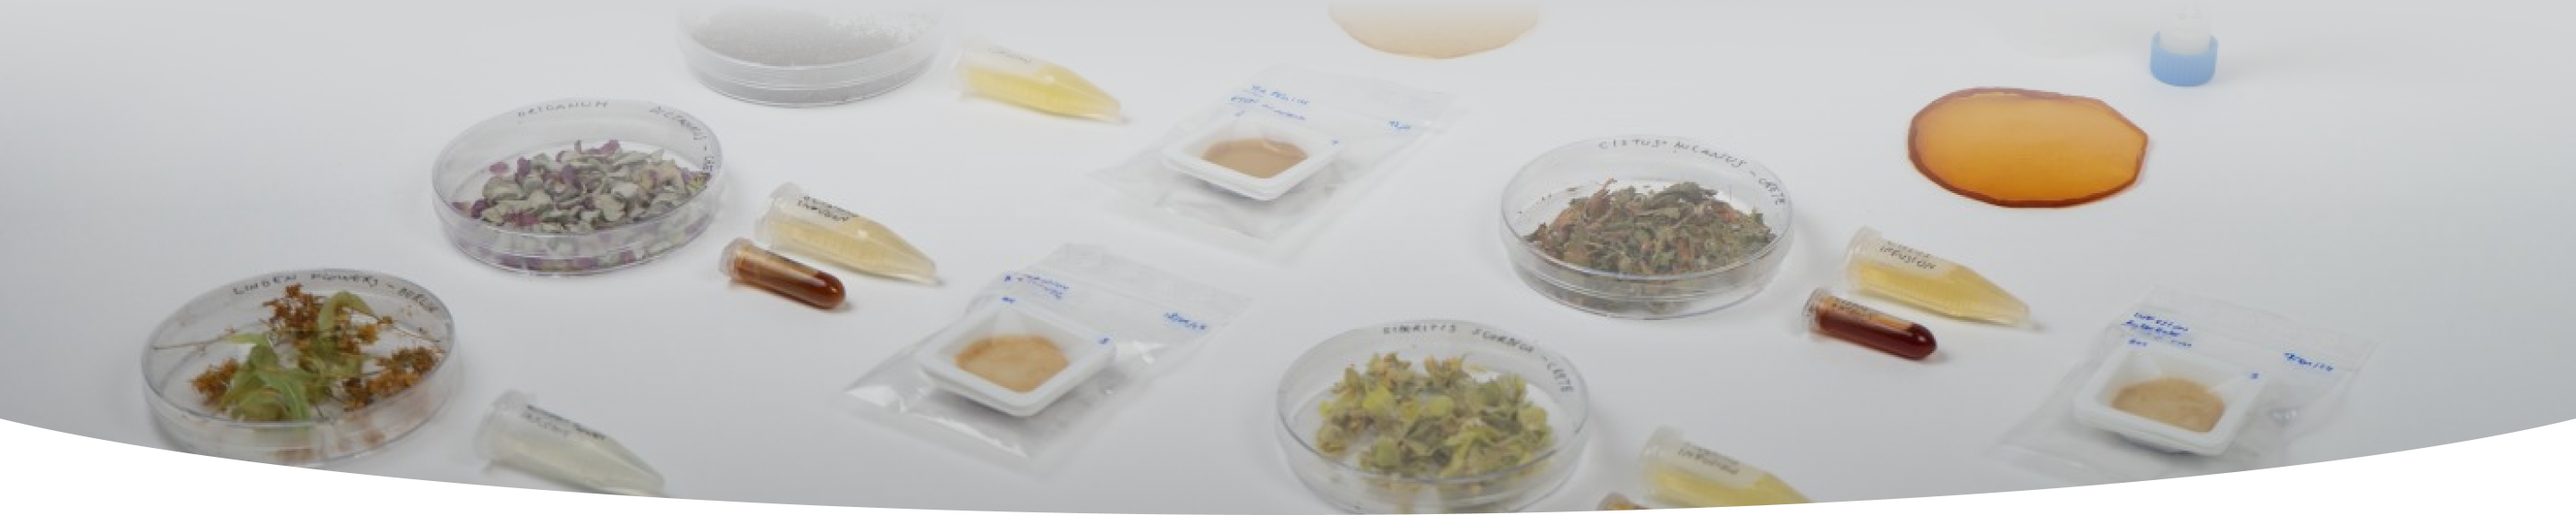
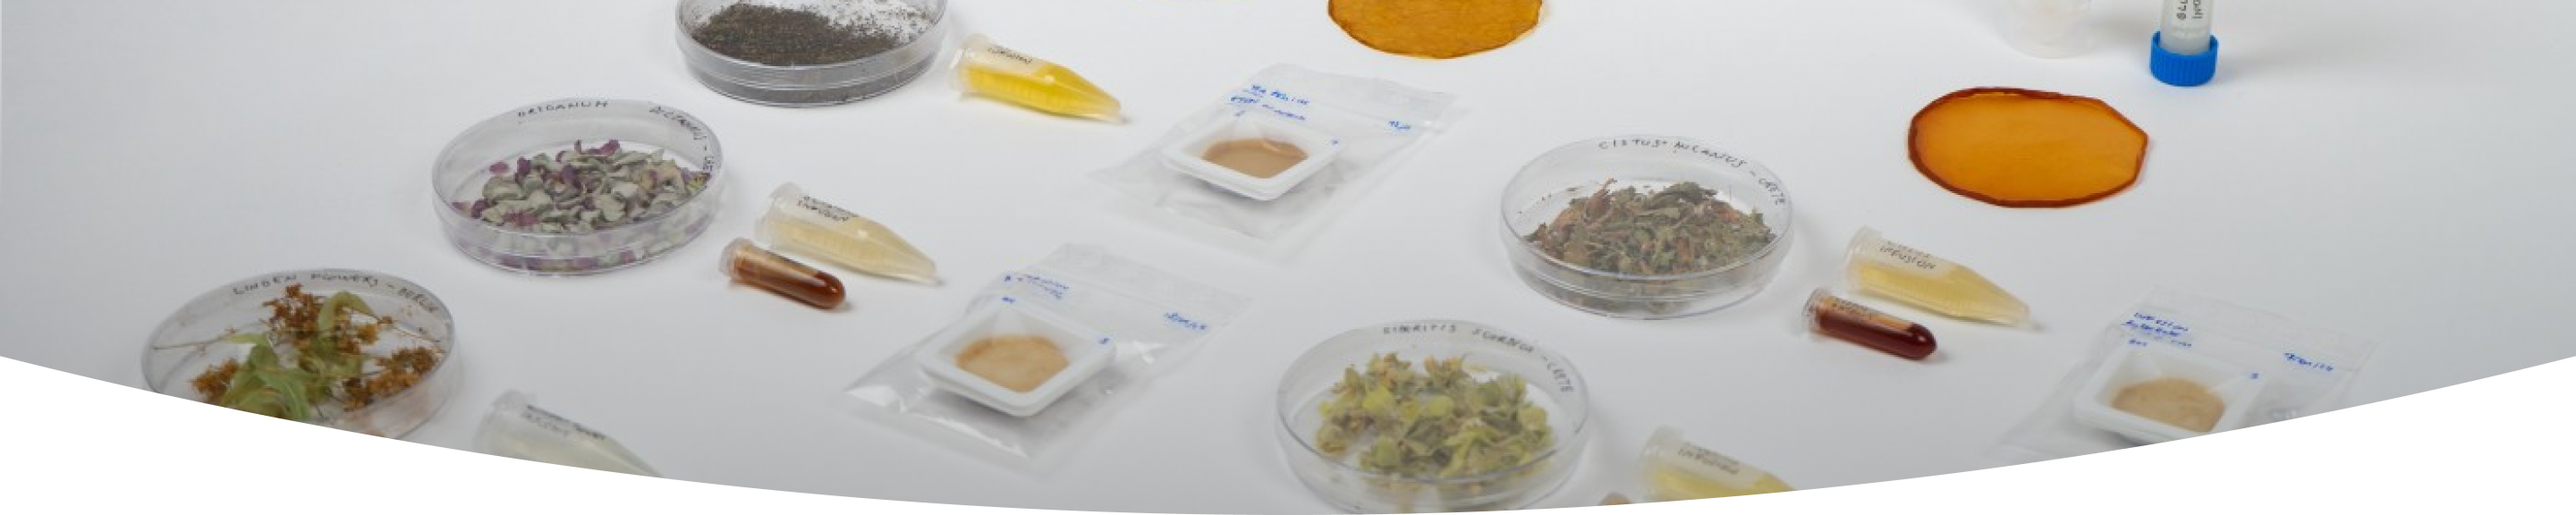
Added sections + size fix

diff --git a/index.html b/index.html
@@ -46,17 +46,17 @@
 </head>
 
 <body class="overflow-x-hidden">
-    <div id="hero-container" class="flex flex-col items-center relative min-h-[min(900px,100vh)]">
+    <div id="hero-container" class="flex flex-col items-center relative">
 
-        <div class="relative w-full flex flex-col items-center pt-20 pb-4">
+        <div class="relative w-full flex flex-col items-center">
             <img src="gradientCover.svg" class="absolute top-0 w-full h-8 z-10">
             <img src="cover.png" alt="Cover image"
-                class="h-3/4 w-full object-cover object-bottom absolute top-0 w-full -z-10">
+                class="h-3/4 w-full object-cover object-bottom w-full z-1 max-h-[200px]">
 
-            <img src="EmmaProfile.jpg" class="w-40 h-40 rounded-lg shadow-lg">
+            <img id="profile-pic" src="EmmaProfile.jpg" class="w-40 h-40 rounded-full z-20 -mt-20">
         </div>
 
-        <div class="flex flex-col items-center px-8">
+        <div class="flex flex-col items-center px-8 z-20">
 
             <div class="text-[#8B1538] mb-6 text-2xl">Emma Sicher</div>
 
@@ -72,37 +72,83 @@
             </div>
 
 
-            <p class="font-light text-[16px] max-w-xl leading-[130%] text-[#8B1538] text-center mt-8 mb-12">
+            <p class="font-light text-[20px] max-w-2xl leading-[130%] text-[#8B1538] text-center mt-8 mb-12">
                 A bio-designer exploring sustainable materials through microbial innovation. Featured in a TED talk and
                 giving workshops, aiming to share nature's potential to transform our materials and food systems.
             </p>
 
             <button
-                class="bg-[#8B1538] hover:bg-[#6d102c] active:scale-95 text-white px-8 py-3 rounded-full text-lg transition-all duration-200">Work
+                class="bg-[#8B1538] hover:bg-[#6d102c] active:scale-95 text-white px-8 py-3 rounded-full text-lg transition-all duration-200 mb-[300px] xl:mb-0">Work
                 with me</button>
+
+                <!-- <div>.</div> -->
 
 
         </div>
 
-        <div class="hidden md:block">
+        <div class="hidden z-10 md:block">
             <img src="HandLeft.png"
-                class="absolute left-0 bottom-0 w-[375px] h-auto max-w-[calc(50vw-110px)] max-h-[calc(100vh-510px)] object-contain object-left -z-10">
+                class="absolute left-0 bottom-0 w-[375px] h-auto max-w-[calc(50vw-140px)] max-h-[calc(100vh-510px)] object-contain object-left">
             <img src="HandRight.png"
-                class="absolute right-0 bottom-0 w-[375px] h-auto max-w-[calc(50vw-110px)] max-h-[calc(100vh-510px)] object-contain object-right -z-10">
+                class="absolute right-0 bottom-0 w-[375px] h-auto max-w-[calc(50vw-140px)] max-h-[calc(100vh-510px)] object-contain object-right">
         </div>
 
         <img src="HandCenter.png" class="w-full md:hidden">
 
     </div>
 
-    <!-- <section class="bg-white rounded-t-lg py-12">
-        <div class="flex flex-col items-center px-8 max-w-6xl mx-auto">
-            Maecenas condimentum quam eu laoreet finibus sapien velit vestibulum nunc eu posuere magna neque sit amet
-            magna. Phasellus mi ligula lacinia quis eleifend eget convallis vitae nisl. Nulla porta lorem elit quis
-            scelerisque purus maximus at. Sed suscipit convallis orci id ultrices. Suspendisse efficitur metus sit amet
-            sapien tristique eu vulputate est consectetur.
+    <div class="px-8 py-24 max-w-7xl mx-auto">
+        <!-- Section 1 -->
+        <div class="flex flex-col md:flex-row items-center gap-12 mb-24">
+            <div class="md:w-1/2">
+                <h2 class="text-3xl font-semibold text-[#8B1538] mb-4">Sustainable Materials</h2>
+                <p class="text-[#8B1538] font-light leading-relaxed">Creating innovative biomaterials through microbial fermentation, transforming organic waste into valuable resources. My research focuses on developing sustainable alternatives to conventional materials.</p>
+            </div>
+            <img src="materials.jpg" alt="Sustainable materials" class="md:w-1/2 rounded-lg shadow-lg">
         </div>
-    </section> -->
+
+        <!-- Section 2 -->
+        <div class="flex flex-col md:flex-row-reverse items-center gap-12 mb-24">
+            <div class="md:w-1/2">
+                <h2 class="text-3xl font-semibold text-[#8B1538] mb-4">Food Innovation</h2>
+                <p class="text-[#8B1538] font-light leading-relaxed">Exploring new frontiers in food design through microbial fermentation. Developing novel food experiences that are both sustainable and nutritious.</p>
+            </div>
+            <img src="food.jpg" alt="Food innovation" class="md:w-1/2 rounded-lg shadow-lg">
+        </div>
+
+        <!-- Section 3 -->
+        <div class="flex flex-col md:flex-row items-center gap-12 mb-24">
+            <div class="md:w-1/2">
+                <h2 class="text-3xl font-semibold text-[#8B1538] mb-4">Workshops & Education</h2>
+                <p class="text-[#8B1538] font-light leading-relaxed">Sharing knowledge through divulgative talks and hands-on workshops. Empowering others to understand and work with biological systems.</p>
+            </div>
+            <img src="ted.jpg" alt="Workshops" class="md:w-1/2 rounded-lg shadow-lg">
+        </div>
+
+        <!-- Section 4 -->
+        <div class="flex flex-col md:flex-row-reverse items-center gap-12">
+            <div class="md:w-1/2">
+                <h2 class="text-3xl font-semibold text-[#8B1538] mb-4">Research & Development</h2>
+                <p class="text-[#8B1538] font-light leading-relaxed">Conducting cutting-edge research in biomaterial development and microbial applications. Collaborating with scientists and industry partners to bring innovations to market.</p>
+            </div>
+            <img src="research.jpg" alt="Research" class="md:w-1/2 rounded-lg shadow-lg">
+        </div>
+    </div>
+
+    <footer class="py-12">
+        <div class="max-w-7xl mx-auto flex flex-col md:flex-row justify-between items-center gap-8 px-8">
+            <div class="text-center md:text-left">
+                <h3 class="font-semibold text-xl mb-2">Emma Sicher</h3>
+                <p class="font-light">Bio-Designer & Material Innovator</p>
+            </div>
+            <div class="flex gap-8">
+                <a href="mailto:emma.sicher@gmail.com" class="hover:opacity-80">Email</a>
+                <a href="https://www.linkedin.com/in/emma-sicher-31427314b/" class="hover:opacity-80">LinkedIn</a>
+                <a href="https://www.instagram.com/seeker_biodesign/" class="hover:opacity-80">Instagram</a>
+            </div>
+        </div>
+    </footer>
+
 </body>
 
 </html>

diff --git a/styles.css b/styles.css
@@ -1,5 +1,5 @@
 html {
-    background-color: #F4F5F7;
+    background-color: #FAF7F5;
 }
 
 body {
@@ -8,6 +8,20 @@ body {
     font-size: 20px;
 }
 
+#hero-container {
+    background-color: rgb(239, 230, 232);
+    min-height: min(90vh, 1000px);
+}
+#profile-pic {
+    border: 8px solid rgb(239, 230, 232);
+}
+
+footer {
+    background-color: rgb(239, 230, 232);
+    color: #550718;
+}
+
 * {
     @apply leading-none;
+    /* border: 1px solid red !important; */
 }
